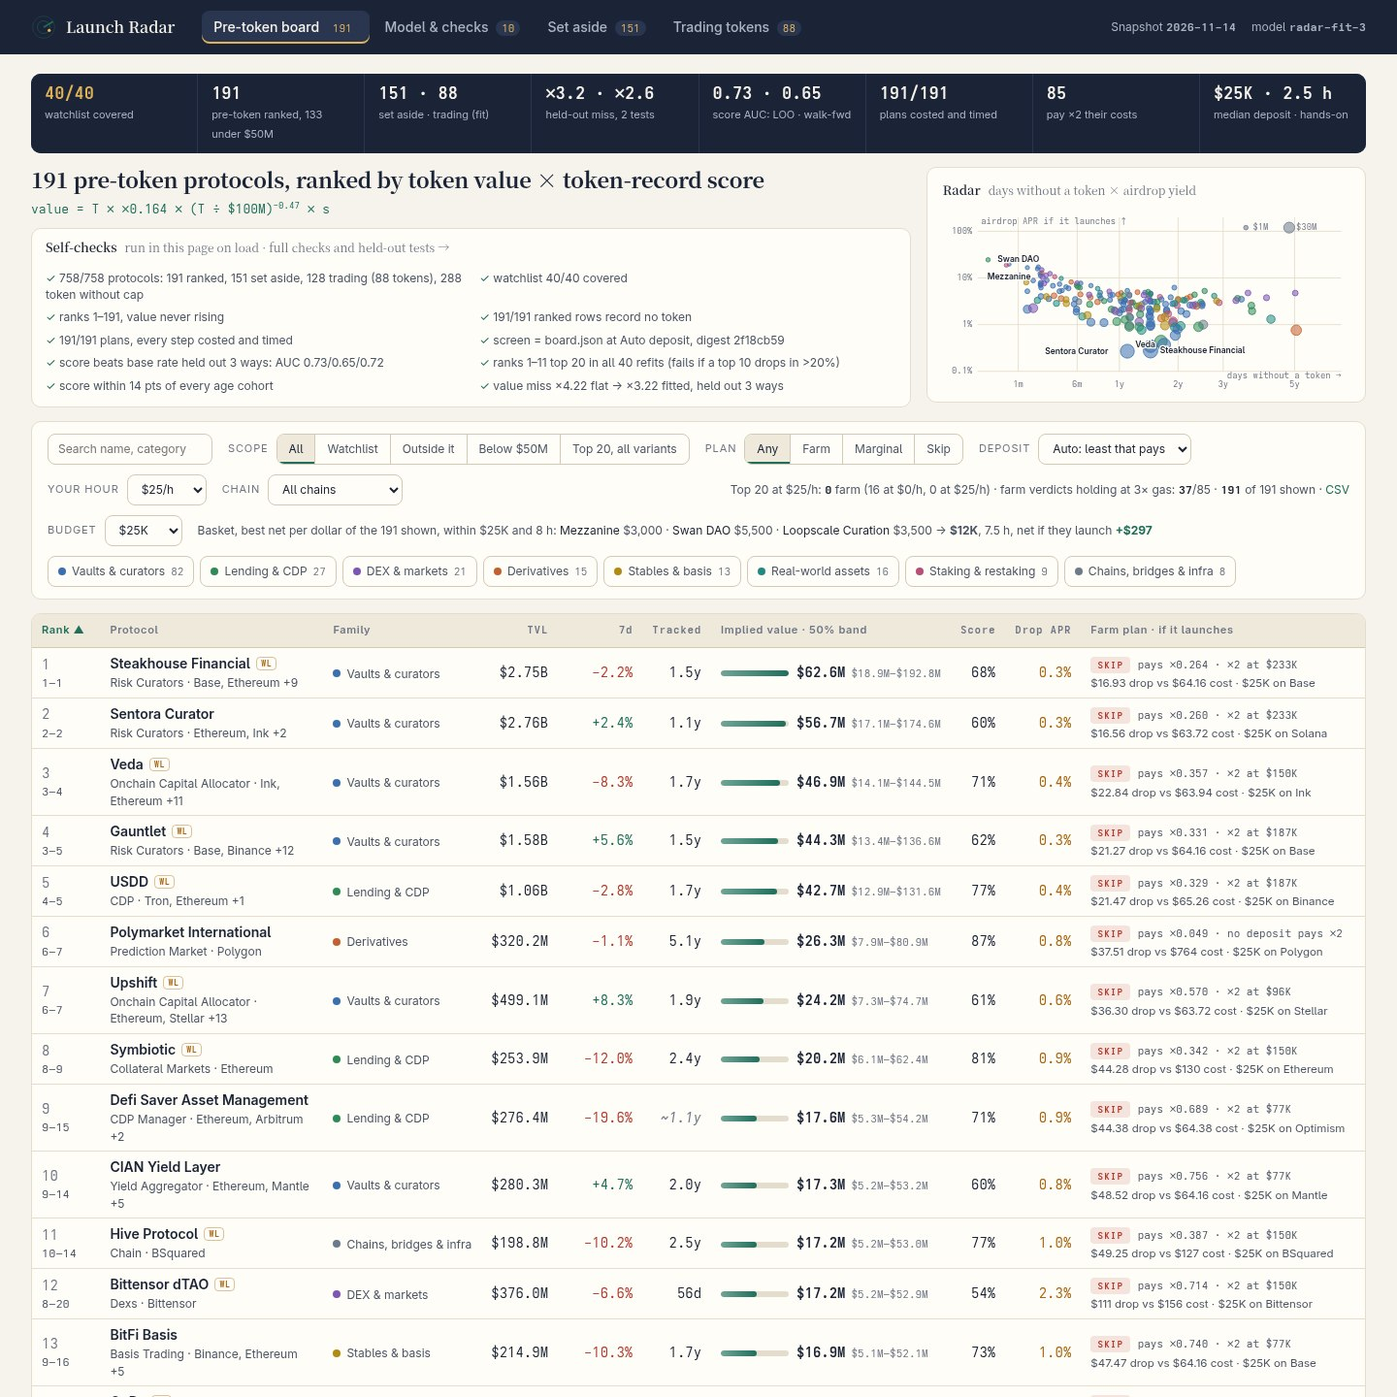
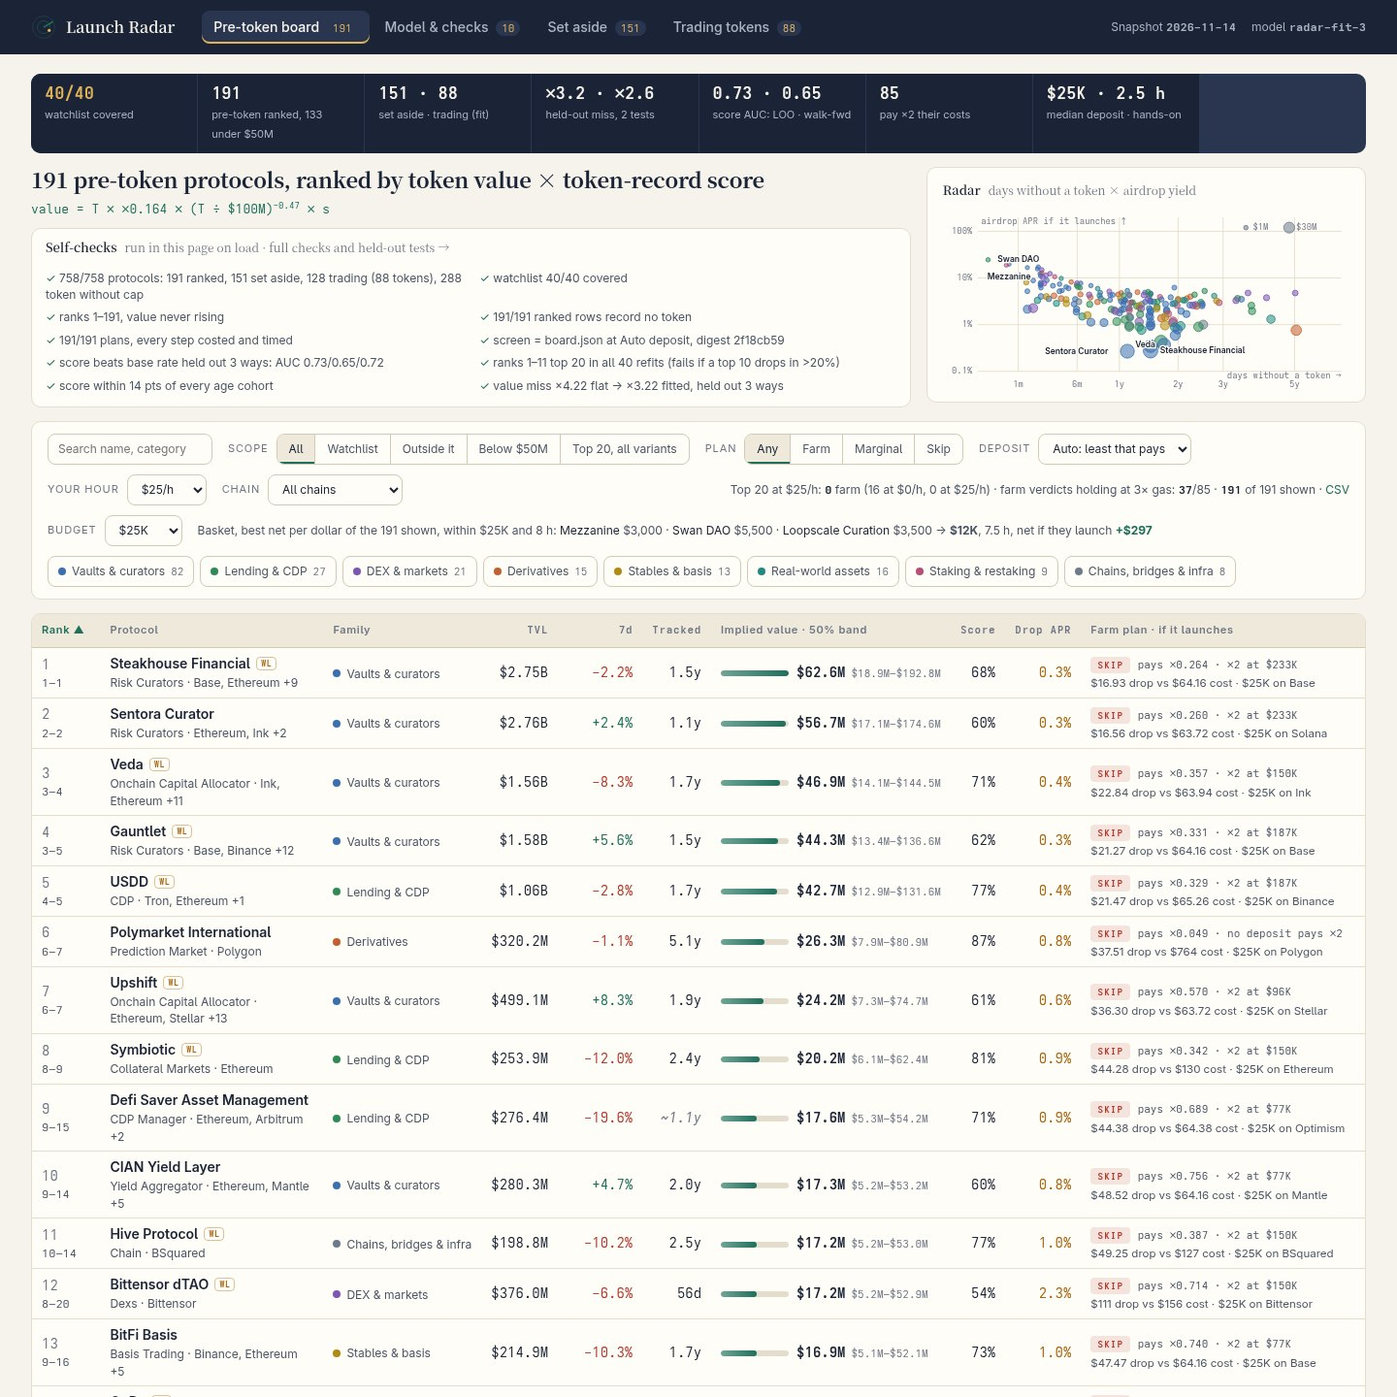
Side-by-side comparison from the detail view (better figure of each pair in bold), sharing one field list with the CSV; room from restating comments, a duplicate KPI and card, and the search debounce

Changed region(s): [[0.75, 0.0312, 1.0, 0.125], [0.625, 0.0625, 0.6875, 0.0938]]

diff --git a/dashboard/app.js b/dashboard/app.js
@@ -21,7 +21,7 @@
  const maxImplied = rows[0].v.implied;
 
  const CLEAR = { q: '', fam: '', chain: '', scope: 'all', verdict: '', dep: '' };
- const DEF = { view: 'board', q: '', fam: '', chain: '', scope: 'all', verdict: '', sort: 'rank', dir: 'asc', p: '', dep: '', bud: '25000', hr: '25' };
+ const DEF = { view: 'board', q: '', fam: '', chain: '', scope: 'all', verdict: '', sort: 'rank', dir: 'asc', p: '', vs: '', dep: '', bud: '25000', hr: '25' };
  const HOURS = 8;
  function readHash() {
   const st = Object.assign({}, DEF);
@@ -30,14 +30,13 @@
    const i = kv.indexOf('='), k = kv.slice(0, i);
    if (i > 0 && own(DEF, k)) try { st[k] = decodeURIComponent(kv.slice(i + 1)); } catch (e) { /* keep the default */ }
   });
-  // Unknown values fall back to the defaults, so a hand-typed link never breaks the page.
   const ok = { view: 'board model aside trading', scope: 'all watch early outside stable', verdict: ' farm marginal skip', dir: 'asc desc', dep: ' 1000 5000 10000 25000 100000 250000', hr: '0 10 25 50 100', bud: '10000 25000 50000 100000 250000 1000000' };
   Object.keys(ok).forEach((k) => { if (!ok[k].split(' ').includes(st[k])) st[k] = DEF[k]; });
   if (!own(KEYS, st.sort)) st.sort = 'rank';
   return st;
  }
  function link(patch) {
-  const st = Object.assign(readHash(), patch), parts = [];
+  const st = Object.assign(readHash(), 'p' in patch ? { vs: '' } : {}, patch), parts = [];
   Object.keys(DEF).forEach((k) => { if (st[k] !== DEF[k]) parts.push(k + '=' + encodeURIComponent(st[k])); });
   return '#' + parts.join('&');
  }
@@ -56,13 +55,22 @@
    (st.scope === 'all' || (st.scope === 'watch' ? r.watch : st.scope === 'outside' ? !r.watch : st.scope === 'stable' ? r.stable : r.below)) &&
    (!st.verdict || r.plan.verdict === st.verdict));
   const key = KEYS[st.sort], sign = st.dir === 'desc' ? -1 : 1;
-  // Missing figures (an unreported 7-day change) sort last in either direction.
   return out.sort((a, b) => { const x = key(a), y = key(b); if (x == null || y == null) return (x == null) - (y == null) || a.rank - b.rank; return (x < y ? -1 : x > y ? 1 : 0) * sign || a.rank - b.rank; });
  }
 
- // CSV of the rows shown, at the reader's deposit and hour: a data: link, so it works offline.
- const CSV_H = 'rank,slug,name,family,tvl_usd,change_7d,days_tracked,implied_usd,low_usd,high_usd,score,drop_apr,verdict,capital_usd,cost_usd,hours,drop_usd,net_usd,x2_at_usd';
- const csv = (shown) => 'data:text/csv;charset=utf-8,' + encodeURIComponent([CSV_H].concat(shown.map((r) => [r.rank, r.p.slug, '"' + r.p.name.replace(/"/g, '""') + '"', r.v.family, Math.round(r.p.tvl_usd), r.p.change_7d, r.v.age_used, Math.round(r.v.implied), Math.round(r.v.low), Math.round(r.v.high), r.v.time_factor.toFixed(3), r.v.apr.toFixed(4), r.plan.verdict, r.plan.stake, r.plan.cost.toFixed(2), (r.plan.minutes / 60).toFixed(1), r.plan.drop.toFixed(2), r.plan.net.toFixed(2), r.plan.verdict === 'farm' ? r.plan.stake : r.plan.pay_cap || ''].join(','))).join('\n'));
+ // FIELDS feed the CSV (raw) and the side-by-side view (formatted; dir marks the better side).
+ const sg = (x) => (x < 0 ? '−' : '+') + usd(Math.abs(x)), p2 = (x) => (x * 100).toFixed(2) + '%';
+ const FIELDS = [['Rank', (r) => r.rank, -1], ['Protocol', (r) => r.p.name], ['Family', (r) => fit.families[r.v.family].label], ['TVL', (r) => Math.round(r.p.tvl_usd), 0, usd],
+  ['7-day change %', (r) => r.p.change_7d, 0, pct], ['Days tracked', (r) => r.v.age_used], ['Value if launched', (r) => Math.round(r.v.fitted), 1, usd],
+  ['Token-record score', (r) => +r.v.time_factor.toFixed(3), 1, (x) => pc(x)], ['Implied value', (r) => Math.round(r.v.implied), 1, usd], ['50% band', (r) => usd(r.v.low) + '–' + usd(r.v.high)], ['Drop APR', (r) => +r.v.apr.toFixed(4), 1, p2], ['Verdict', (r) => r.plan.verdict], ['Capital', (r) => r.plan.stake, -1, usd],
+  ['Gas & fees', (r) => +r.plan.cost.toFixed(2), -1, usd], ['Hours', (r) => +(r.plan.minutes / 60).toFixed(1), -1], ['Modeled drop', (r) => +r.plan.drop.toFixed(2), 1, usd],
+  ['Net if it launches', (r) => +r.plan.net.toFixed(2), 1, sg], ['Verdict at 3x gas', (r) => r.plan.fees[1][3]], ['Stress loss', (r) => +r.plan.stress_usd.toFixed(2), -1, usd],
+  ['Capital for x2', (r) => (r.plan.verdict === 'farm' ? r.plan.stake : r.plan.pay_cap || ''), -1, (x) => (x ? usd(x) : 'none to $1M')]];
+ const csv = (shown) => 'data:text/csv;charset=utf-8,' + encodeURIComponent([FIELDS.map((f) => f[0])].concat(shown.map((r) => FIELDS.map((f) => { const x = f[1](r); return typeof x === 'string' ? '"' + x.replace(/"/g, '""') + '"' : x; }))).join('\n'));
+ function compare(a, b) {
+  return `<a class="back" href="${link({ vs: '' })}">← Back to ${esc(a.p.name)}</a><section class="intro"><h1>${esc(a.p.name)} vs ${esc(b.p.name)}</h1><p>Same model, deposit and hour; the better of each pair in bold.</p></section>
+  <div class="tablewrap">${tbl('board cmp', ['', '#' + esc(a.p.name), '#' + esc(b.p.name)], FIELDS.slice(2).map(([l, f, d, F]) => { const x = f(a), y = f(b), w = d && x !== y && x !== '' && y !== '' ? (x - y) * d > 0 : null; F = F || String; return [l, w === true ? `<b>${F(x)}</b>` : F(x), w === false ? `<b>${F(y)}</b>` : F(y)]; }))}</div>`;
+ }
  const rOf = (v) => 1.8 + 6.5 * Math.sqrt(v / maxImplied);
  function chart(shown, H) {
   const W = 470, L = 40, B = 26, T = 10, RR = 10;
@@ -78,7 +86,6 @@
    const rad = rOf(r.v.implied);
    dots += `<a href="${link({ p: r.p.slug })}"><circle class="dot f-${r.v.family}${on.has(r.p.slug) ? '' : ' off'}" cx="${X(r.v.age_used).toFixed(1)}" cy="${Y(r.v.apr).toFixed(1)}" r="${rad.toFixed(1)}"><title>${esc(r.p.name)} ${usd(r.v.implied)}</title></circle></a>`;
   });
-  // Label the 3 largest values and 3 best yields shown, beside each dot where no label overlaps.
   const pick = [];
   [(a, b) => b.v.implied - a.v.implied, (a, b) => b.v.apr - a.v.apr].forEach((cmp) => {
    shown.slice().sort(cmp).slice(0, 3).forEach((r) => { if (!pick.includes(r)) pick.push(r); });
@@ -94,7 +101,6 @@
    boxes.push([spot[0], spot[1], w, h]);
    labels += `<text class="lab" x="${(spot[0] + 3).toFixed(1)}" y="${(spot[1] + 9).toFixed(1)}">${esc(r.p.name)}</text>`;
   });
-  // Axis titles and a size legend: two reference dots at round implied values.
   g += `<text class="ax" x="${W - RR}" y="${H - 18}" text-anchor="end">days without a token →</text><text class="ax" x="${L + 4}" y="${T + 8}">airdrop APR if it launches ↑</text>`;
   [[1e6, '$1M'], [3e7, '$30M']].forEach(([v, l], i) => { g += `<circle class="dot f-infra" cx="${W - 120 + i * 50}" cy="${T + 12}" r="${rOf(v).toFixed(1)}"/><text class="ax" x="${W - 112 + i * 50}" y="${T + 15}">${l}</text>`; });
   return `<svg viewBox="0 0 ${W} ${H}" class="radar">${g}
@@ -117,13 +123,13 @@
    <p class="eq">value = T × ${mult(fit.base)} × (T ÷ $100M)<sup>${fit.slope.toFixed(2)}</sup> × s</p>
    <table class="mini tests"><thead><tr><th>Term · held-out median miss</th><th class="num">Leave-one-out</th><th class="num">Walk-fwd</th><th class="num">Family out</th><th class="num">Use</th></tr></thead><tbody>
    ${T.terms.map((t) => `<tr class="${t.ok ? 'pick' : ''}"><td>${t.label}</td><td class="num">${x(t.loo)}</td><td class="num">${x(t.wf)}</td><td class="num">${x(t.lofo)}</td><td class="num">${used[t.key]}</td></tr>`).join('')}</tbody></table>
-   <p class="note">Walk-forward: fit the ${T.wf_train} listed first, score the ${T.wf_n} since ${T.wf_from}. T = TVL carried a week at its 7-day change (${M.growth_floor}…+${M.growth_cap}%). s = token-record score: the share of ${O.n} peers (logistic fit ; ${O.with_token} record a token) with this TVL, days tracked, 7-day change and family that record a token: AUC ${O.auc_loo.toFixed(2)} leave-one-out, ${O.auc_wf.toFixed(2)} walk-forward, ${O.auc_fam.toFixed(2)} family-out (each family scored by a fit that never saw it).</p>
+   <p class="note">Walk-forward: fit the ${T.wf_train} listed first, score the ${T.wf_n} since ${T.wf_from}. T = TVL carried a week at its 7-day change (${M.growth_floor}…+${M.growth_cap}%). s = token-record score, a logistic fit on ${O.n} peers (${O.with_token} record a token): AUC ${O.auc_loo.toFixed(2)} leave-one-out, ${O.auc_wf.toFixed(2)} walk-forward, ${O.auc_fam.toFixed(2)} family-out.</p>
    <p class="note"><b>Missing ages:</b> ${rows.filter((r) => r.ageRange).length} ranked rows have no listing date and use the median age; re-ranked at the 25th and 75th percentile of observed ages they move: ${rows.filter((r) => r.ageRange).map((r) => `${esc(r.p.name)} #${r.ageRange[0].rank}–#${r.ageRange[1].rank}`).join(', ')}.</p>
    <p class="note"><b>Not a launch forecast:</b> s scores whether a peer <i>records</i> a token today, the quantity the held-out tests check (worst age-cohort gap ${Math.round(O.gap * 100)} pts); the snapshot has no launch dates, so no timing claim.</p>
    <p class="note">Leave-one-out miss by TVL band: ${fit.bands.map((b) => `<b>${b.lo ? usd(b.lo) : '$0'}–${b.hi < 1e15 ? usd(b.hi) : '∞'} ×${b.miss.toFixed(1)}</b> (${b.n} tokens; ${rows.filter((r) => r.p.tvl_usd >= b.lo && r.p.tvl_usd < b.hi).length} ranked)`).join(' · ')}.</p></div>`;
  }
 
- // The cover's self-checks, computed here on every load: the gate's rules and the screen-to-board match.
+ // Self-checks, computed on every load.
  const bRows = R.boardRows(radar), dig = R.digest(bRows), B = window.BOARD || {};
  const [flatT, spotT, sizeT] = fit.tests.terms;
  const nTr = S.protocols.filter((p) => p.mcap_usd > 0).length, nAll = rows.length + radar.products.length + nTr + radar.listed_only;
@@ -143,7 +149,7 @@
  function board(st) {
   const shown = filtered(st), fams = st.fam ? st.fam.split(',') : [];
   const watchCov = S.watchlist.filter((s) => bySlug[s]).length;
-    const farmN = rows.filter((r) => r.plan.verdict === 'farm').length;
+  const farmN = rows.filter((r) => r.plan.verdict === 'farm').length;
   const mid = (f) => rows.map(f).sort((a, b) => a - b)[rows.length >> 1];
   const chains = {}; rows.forEach((r) => r.p.chains.forEach((c) => { chains[c] = (chains[c] || 0) + 1; }));
   const famCount = {}; rows.forEach((r) => { famCount[r.v.family] = (famCount[r.v.family] || 0) + 1; });
@@ -156,7 +162,7 @@
    const on = fams.includes(f[0]), next = on ? fams.filter((x) => x !== f[0]) : fams.concat(f[0]);
    return `<a href="${link({ fam: next.join(',') })}" class="chip f-${f[0]}${on ? ' on' : ''}"><i></i>${esc(f[1])} <b>${famCount[f[0]] || 0}</b></a>`;
   }).join('');
-  // Basket (#07): shown plans with a positive net, best net per dollar first, while the budget and HOURS last.
+ // Basket: positive-net plans, best net per dollar, within budget and HOURS.
   let cap = 0, hrs = 0;
   const pick = shown.filter((r) => r.plan.net > 0).sort((a, b) => b.plan.net / b.plan.stake - a.plan.net / a.plan.stake)
    .filter((r) => cap + r.plan.stake <= +st.bud && hrs + r.plan.minutes / 60 <= HOURS && (cap += r.plan.stake, hrs += r.plan.minutes / 60));
@@ -175,7 +181,6 @@
     <td class="num apr">${(r.v.apr * 100).toFixed(1)}%</td>
     <td class="plan">${verdictTag(r.plan.verdict)} <span class="pmult">pays ${mult(r.plan.drop / r.plan.all_in)}${r.plan.verdict === 'farm' ? '' : r.plan.pay_cap ? ` · ×${M.target_cover} at ${usd(r.plan.pay_cap)}` : ` · no deposit pays ×${M.target_cover}`}</span><small>${usd(r.plan.drop)} drop vs ${usd(r.plan.all_in)} cost · ${usd(r.plan.stake)} on ${esc(r.plan.chain)}</small></td></tr>`;
   }).join('');
-  // The controls: under the hero on the cover, beside the chart when filters are on.
   const ctl = `<div class="ctl">    <section class="filters">
    <label class="search"><input id="q" type="search" value="${esc(st.q)}" placeholder="Search name, category or chain" autocomplete="off" aria-label="Search"></label>
    <div class="field"><span>Scope</span>${seg('scope', [['all', 'All'], ['watch', 'Watchlist'], ['outside', 'Outside it'], ['early', 'Below $50M'], ['stable', 'Top 20, all variants']])}</div>
@@ -194,7 +199,6 @@
    <div><b>${radar.products.length} · ${fit.n}</b><span>set aside · trading (fit)</span></div>
    <div><b>×${sizeT.loo.toFixed(1)} · ×${sizeT.wf.toFixed(1)}</b><span>held-out miss, 2 tests</span></div>
    <div><b>${O.auc_loo.toFixed(2)} · ${O.auc_wf.toFixed(2)}</b><span>score AUC: LOO · walk-fwd</span></div>
-   <div><b>${bRows.length}/${rows.length}</b><span>plans costed and timed</span></div>
    <div><b>${farmN}</b><span>pay ×${M.target_cover} their costs</span></div>
    <div><b>${usd(mid((r) => r.plan.stake))} · ${R.mins(mid((r) => r.plan.minutes))}</b><span>median deposit · hands-on</span></div>
   </section>
@@ -212,12 +216,11 @@
    <tbody>${body || '<tr><td colspan="10" class="empty">No protocol matches these filters.</td></tr>'}</tbody></table></div>`;
  }
 
- // Red team: the ways this row's number could be wrong, each from the row's own figures.
  function redTeam(r) {
   const v = r.v, b = fit.bands.find((x) => r.p.tvl_usd >= x.lo && r.p.tvl_usd < x.hi), alt = Object.entries(r.alt).sort((a, c) => Math.abs(c[1] - r.rank) - Math.abs(a[1] - r.rank))[0];
   return [
    `<b>Value:</b> trading tokens of this size (${b.lo ? usd(b.lo) : '$0'}–${b.hi < 1e15 ? usd(b.hi) : '∞'} TVL) miss their real market cap by a median ×${b.miss.toFixed(1)} held out; a market cap at launch of ${usd(v.fitted * fit.band_low)} or ${usd(v.cap_high)} would not be unusual.`,
-   `<b>Score:</b> ${pc(v.time_factor)} of similar peers record a token today; that is no forecast of when, or whether, this one launches, and the fit misses one age cohort by ${Math.round(fit.odds.gap * 100)} pts.`,
+   `<b>Score:</b> ${pc(v.time_factor)} of similar peers record a token today (no launch forecast); the fit misses one age cohort by ${Math.round(fit.odds.gap * 100)} pts.`,
    `<b>Rank:</b> #${r.rank} now, ${r.rlo}–${r.rhi} across 40 refits, #${alt[1]} ${alt[0]}${v.growth_imputed ? '; its 7-day change is unreported, so 0% was used' : ''}${r.ageRange ? `; no listing date, so the median age was used: at ${r.ageRange[0].age} days it would rank #${r.ageRange[0].rank}, at ${r.ageRange[1].age} days #${r.ageRange[1].rank}` : ''}.`,
    `<b>Plan:</b> pays ×${M.target_cover} only if ≥${(r.plan.need_share * 100).toFixed(1)}% of the token reaches depositors (assumed ${M.drop_share * 100}%), and only if a token launches at all.`
   ];
@@ -231,7 +234,7 @@
   const caps = peers.map((x) => x.actual), lo = Math.log10(Math.min(v.low, ...caps) / 1.5), hi = Math.log10(Math.max(v.high, ...caps) * 1.5);
   const pos = (x) => (100 * (Math.log10(x) - lo) / (hi - lo)).toFixed(2) + '%';
   const line = (label, src, val, cls) => `<tr class="${cls || ''}"><td>${label}<small>${src}</small></td><td class="num">${val}</td></tr>`;
-  return `<a class="back" href="${link({ p: '' })}">← Back to the board</a>
+  return `<a class="back" href="${link({ p: '' })}">← Back to the board</a><label class="field vs"><span>Compare with</span><select id="vs"><option value="">another protocol…</option>${rows.filter((x) => x !== r).map((x) => `<option value="${x.p.slug}">#${x.rank} ${esc(x.p.name)}</option>`).join('')}</select></label>
   <section class="dhead">
    <div class="rankbig"><small>Rank</small><b>${r.rank}</b><small>of ${rows.length}</small></div>
    <div><h1>${esc(p.name)}</h1>
@@ -280,7 +283,6 @@
   </div>`;
  }
 
- // A plain table: heads starting with '#' are numeric columns; rows are arrays of cell HTML.
  const tbl = (cls, heads, rows) => `<table class="${cls}"><thead><tr>${heads.map((h) => `<th${h[0] === '#' ? ' class="num"' : ''}>${h.replace('#', '')}</th>`).join('')}</tr></thead><tbody>${rows.map((c) => `<tr>${c.map((v, i) => `<td${heads[i][0] === '#' ? ' class="num"' : ''}>${v}</td>`).join('')}</tr>`).join('')}</tbody></table>`;
  const nm = (n, sub) => `<b>${esc(n)}</b><small>${esc(sub)}</small>`;
  function model() {
@@ -288,40 +290,34 @@
  }
  function aside() {
   return `<section class="intro"><h1>${radar.products.length} products set aside, not ranked</h1>
-   <p>No token of their own, but each is a wrapped, bridged, staked or exchange product, a versioned pool or a likely sibling of a trading token: the watchlist rule (productOf) applied to every protocol. Their value most likely rides on the related token's, so the board gives them none of their own.</p></section>
+   <p>No token of their own, but each is a wrapped, bridged, staked or exchange product, a versioned pool or a likely sibling of a trading token (productOf, applied to every protocol); their value rides on that token's.</p></section>
    <div class="tablewrap">${tbl('board', ['Product', 'Why set aside', '#TVL', '#7d'], radar.products.map((x) => [nm(x.p.name, x.p.chains.slice(0, 3).join(', ')), `<span class="tag">${esc(x.kind)}</span>`, usd(x.p.tvl_usd), pct(x.p.change_7d)]))}</div>`;
  }
 
  function trading() {
   return `<section class="intro"><h1>${fit.n} tokens that trade: the model's calibration set</h1>
    <p>Kept off the board: their market prices them. calibrate() pools TVL per token, leaves out exchanges and products, and fits ln(mcap ÷ TVL) on ln(TVL): value grows as TVL<sup>${fit.elasticity.toFixed(2)}</sup>. ${radar.listed_only} more record a token with no market cap.</p></section>
-   <div class="split"><div class="card"><h2>Held-out fit</h2><p class="note">Leave-one-out median miss ×${fit.median_error.toFixed(2)}. Band ×${fit.band_low.toFixed(2)}–×${fit.band_high.toFixed(2)} holds ${fit.band_hits}/${fit.n}; ${fit.clipped} ratios clipped in the fit only.</p></div>
-   <div class="tablewrap">${tbl('board', ['Protocol', '#TVL', '#Market cap', '#÷ TVL', '#Fit without it', '#÷ market'], radar.live.map((l) => [nm(l.p.name, (l.p.symbol || '') + ' · ' + (l.p.category || '')), usd(l.tvl) + (l.members > 1 ? ` <small>${l.members} parts</small>` : ''), usd(l.actual), mult(l.actual / l.tvl), usd(l.loo), `<span class="${l.loo / l.actual > 2 || l.loo / l.actual < 0.5 ? 'down' : 'up'}">${mult(l.loo / l.actual)}</span>`]))}</div></div>`;
+   <div class="tablewrap">${tbl('board', ['Protocol', '#TVL', '#Market cap', '#÷ TVL', '#Fit without it', '#÷ market'], radar.live.map((l) => [nm(l.p.name, (l.p.symbol || '') + ' · ' + (l.p.category || '')), usd(l.tvl) + (l.members > 1 ? ` <small>${l.members} parts</small>` : ''), usd(l.actual), mult(l.actual / l.tvl), usd(l.loo), `<span class="${l.loo / l.actual > 2 || l.loo / l.actual < 0.5 ? 'down' : 'up'}">${mult(l.loo / l.actual)}</span>`]))}</div>`;
  }
 
  let planDep = '|25';
- // How many top-20 verdicts are farm at a given hourly value (and deposit), to compare with the default.
  const top20 = rows.slice(0, 20), farmAt = (h, dep) => top20.filter((r) => R.farmPlan(r.p, r.v, +dep, h).verdict === 'farm').length;
  function render() {
   const st = readHash();
   head(st);
   app.className = st.p ? 'detail' : st.view;
-  // A deposit chosen by the reader re-plans every row at that amount (farmPlan's dep).
   if (st.dep + '|' + st.hr !== planDep) { planDep = st.dep + '|' + st.hr; rows.forEach((r) => { r.plan = R.farmPlan(r.p, r.v, +st.dep, +st.hr); }); }
-  app.innerHTML = st.p ? detail(st) : st.view === 'model' ? model() : st.view === 'aside' ? aside() : st.view === 'trading' ? trading() : board(st);
+  app.innerHTML = st.p ? (bySlug[st.p] && bySlug[st.vs] ? compare(bySlug[st.p], bySlug[st.vs]) : detail(st)) : st.view === 'model' ? model() : st.view === 'aside' ? aside() : st.view === 'trading' ? trading() : board(st);
   document.getElementById('foot').innerHTML = `Source: ${esc(S.source)}. Floor $${(S.floor_usd / 1e6).toFixed(0)}M. Implied value = the radar's own value if launched × its token-record score; never make.fun's claim. A protocol may hold a token DefiLlama does not record.`;
   if (st.p) window.scrollTo(0, 0);
-  if (typing) { clearTimeout(typing); typing = null; }
  }
- let typing = null;
  app.addEventListener('input', (e) => {
-  if (e.target.id === 'q') {
-   clearTimeout(typing);
-   const val = e.target.value;
-   typing = setTimeout(() => { typing = null; history.replaceState(null, '', link({ q: val })); render(); const q = document.getElementById('q'); if (q) { q.focus(); q.setSelectionRange(val.length, val.length); } }, 160);
-  }
+  if (e.target.id !== 'q') return;
+  const val = e.target.value;
+  history.replaceState(null, '', link({ q: val })); render();
+  const q = document.getElementById('q'); q.focus(); q.setSelectionRange(val.length, val.length);
  });
- app.addEventListener('change', (e) => { if (['chain', 'dep', 'bud', 'hr'].includes(e.target.id)) go({ [e.target.id]: e.target.value }); });
+ app.addEventListener('change', (e) => { if (['chain', 'dep', 'bud', 'hr', 'vs'].includes(e.target.id)) go({ [e.target.id]: e.target.value }); });
  ['click', 'keydown'].forEach((ev) => app.addEventListener(ev, (e) => {
   const tr = e.target.closest('tr[data-slug]');
   if (tr && !e.target.closest('a') && (ev === 'click' || e.key === 'Enter')) go({ p: tr.dataset.slug });

diff --git a/dashboard/model.js b/dashboard/model.js
@@ -294,8 +294,7 @@
    ];
   }
   function total(st) { var c = 0, t = 5; st.forEach(function (s) { c += s.usd; t += s.min; }); return { cost: c, min: t, all: c + t / 60 * hr }; }
-  // Tranches [amount, day in]: only principal in the protocol earns, from the day it lands (vault side
-  // deposit day 1, RWA after a 2-day KYC review); swaps, trades and borrows log activity, not dollar-days.
+  // Tranches [amount, day in]: principal earns from the day it lands; swaps, trades, borrows earn nothing.
   function tranches(stake) { return kind === 'vault' ? [[stake, 0], [Math.round(stake / 4), 1]] : [[stake, kind === 'rwa' ? 2 : 0]]; }
   function eligible(stake) { return tranches(stake).reduce(function (a, t) { return a + t[0]; }, 0); }
   function earn(stake) { return tranches(stake).reduce(function (a, t) { return a + t[0] * (M.farm_days - t[1]); }, 0) * v.apr / 365; }

diff --git a/dashboard/style.css b/dashboard/style.css
@@ -184,3 +184,8 @@ td.proto{min-width:230px;}
 .foot{max-width:1440px;margin:0 auto;padding:8px 32px 28px;color:var(--dim);font-size:11.5px;}
 .basket{font-size:12.5px;color:var(--muted);flex-wrap:nowrap;}
 .basket a{color:var(--text);}
+.field.vs{float:right;margin-top:-6px;}
+.field.vs select{max-width:260px;font-size:12px;}
+.tablewrap:has(.cmp){max-width:860px;}
+.cmp td:first-child{color:var(--muted);}
+.cmp td.num b{color:var(--accent);}
